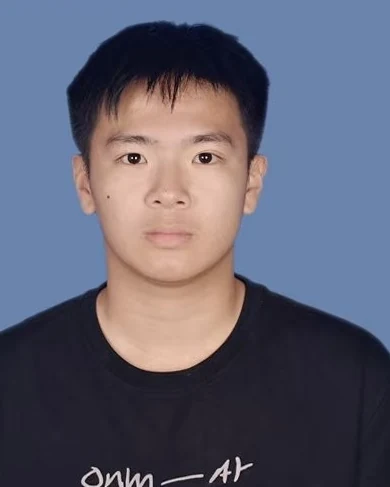
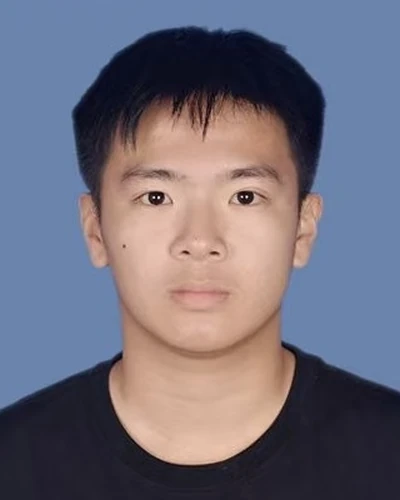
fix: 修正线上文字与头像展示

diff --git a/assets/main.scss b/assets/main.scss
@@ -155,7 +155,7 @@ a:focus {
   scroll-margin-top: 24px;
 }
 
-.page-content h3 {
+.page-content h2 {
   margin-bottom: 32px;
   padding-bottom: 14px;
   border-bottom: 1px solid $site-border;
@@ -209,7 +209,7 @@ a:focus {
   margin-bottom: 20px;
 }
 
-#projects + .layout .details h4 {
+#projects + .layout .details h3 {
   margin-bottom: 8px;
   color: $site-text;
   font-size: 2.4rem;
@@ -267,7 +267,7 @@ a:focus {
 }
 
 .dark .hero,
-.dark .page-content h3,
+.dark .page-content h2,
 .dark .profile-img,
 .dark #skills + .row p,
 .dark #projects + .layout,
@@ -276,8 +276,8 @@ a:focus {
 }
 
 .dark .hero h1,
-.dark .page-content h3,
-.dark #projects + .layout .details h4,
+.dark .page-content h2,
+.dark #projects + .layout .details h3,
 .dark .site-nav a {
   color: $site-dark-text;
 }

diff --git a/_includes/section-list.html b/_includes/section-list.html
@@ -1,7 +1,7 @@
 {% for item in include.content %}
   <div class="row clearfix layout layout-{{item.layout | default: 'left'}} border-{{item.border | default: 'no'}}">
     <div class="col-xs-12 col-sm-4 col-md-3 col-print-12 details">
-      <h4 id="{{ item.title | slugify }}">{{ item.title }}</h4>
+      <h3 id="{{ item.title | slugify }}">{{ item.title }}</h3>
       {%- if item.sub_title -%}<p><b>{{ item.sub_title }}</b></p>{%- endif -%}
       {%- if item.caption -%}<p>{{ item.caption }}</p>{%- endif -%}
 

diff --git a/_layouts/default.html b/_layouts/default.html
@@ -19,7 +19,7 @@
       {%- if site.version == 2 -%}
         {% for section in site.content %}
           <div class="container {{ section.layout }}-container">
-            <h3 id="{{ section.title | slugify }}">{{ section.title }}</h3>
+            <h2 id="{{ section.title | slugify }}">{{ section.title }}</h2>
             {% include {{ section.layout | prepend: "section-" | append: ".html" }} content=section.content %}
           </div>
         {% endfor %}

diff --git a/_includes/about.html b/_includes/about.html
@@ -1,6 +1,6 @@
 <div class="container intro-container">
-  <h3 id="{{ site.about_title | slugify | default: 'about-me' }}">{{ site.about_title | default:
-  "About Me" }}</h3>
+  <h2 id="{{ site.about_title | slugify | default: 'about-me' }}">{{ site.about_title | default:
+  "About Me" }}</h2>
   <div class="row clearfix">
     {%- if site.about_profile_image -%}
       <div class="col-xs-12 col-sm-4 col-md-3 no-print">

diff --git a/docs/checklist.md b/docs/checklist.md
@@ -4,93 +4,93 @@
 
 - 本清单依据 `docs/prd.md` 与 `docs/design.md` 编写。
 - 每一项都包含可见、可点击或可复现的检查动作；只有取得对应证据后才能将 `[ ]` 改为 `[x]`。
-- 验证证据和命令结果统一记录到 `docs/progress.md`。当前阶段尚未修改网站，因此所有网站验收项保持 `[ ]`。
+- 验证证据和命令结果统一记录到 `docs/progress.md`；只有已取得证据的项目才标记为 `[x]`。
 
 ## 1. 配置、构建与发布
 
-- [ ] 打开 `_config.yml`，可见 `repository: 824man824-bit/personal-resume`。
-- [ ] 打开 `_config.yml`，可见 `url: https://824man824-bit.github.io`。
-- [ ] 打开 `_config.yml`，可见 `baseurl: /personal-resume`。
-- [ ] 执行 `bundle exec jekyll build`（或项目确认的等效构建命令），命令以退出码 `0` 完成且无构建错误。
-- [ ] 构建后检查生成 HTML，站内链接、CSS、JavaScript 和头像路径均包含正确的项目站点前缀，且不包含本地磁盘路径。
-- [ ] 在浏览器打开 `https://824man824-bit.github.io/personal-resume/`，首页可见且控制台/网络面板没有站点资源 `404`。
+- [x] 打开 `_config.yml`，可见 `repository: 824man824-bit/personal-resume`。
+- [x] 打开 `_config.yml`，可见 `url: https://824man824-bit.github.io`。
+- [x] 打开 `_config.yml`，可见 `baseurl: /personal-resume`。
+- [x] 执行 `bundle exec jekyll build`（或项目确认的等效构建命令），命令以退出码 `0` 完成且无构建错误。
+- [x] 构建后检查生成 HTML，站内链接、CSS、JavaScript 和头像路径均包含正确的项目站点前缀，且不包含本地磁盘路径。
+- [x] 在浏览器打开 `https://824man824-bit.github.io/personal-resume/`，首页可见且控制台/网络面板没有站点资源 `404`。
 
 ## 2. 单页结构与首屏
 
-- [ ] 从页面顶部向下浏览，可见区域严格按 Hero、About、Skills、Projects、Contact 排列，且五个区域均有可识别标题或语义标签。
-- [ ] Hero 可见公开称呼“吕同学”。
-- [ ] Hero 可见完整定位“金融科技与区块链方向本科生，关注金融数据分析、业务原型开发与 AI 辅助项目实践。”
-- [ ] Hero 可见“查看项目”“访问 GitHub”“发送邮件”三个操作，且没有电话、出生日期、性别或政治面貌。
-- [ ] 点击“查看项目”后，页面跳转到 Projects 区域，目标标题未被遮挡。
+- [x] 从页面顶部向下浏览，可见区域严格按 Hero、About、Skills、Projects、Contact 排列，且五个区域均有可识别标题或语义标签。
+- [x] Hero 可见公开称呼“吕同学”。
+- [x] Hero 可见完整定位“金融科技与区块链方向本科生，关注金融数据分析、业务原型开发与 AI 辅助项目实践。”
+- [x] Hero 可见“查看项目”“访问 GitHub”“发送邮件”三个操作，且没有电话、出生日期、性别或政治面貌。
+- [x] 点击“查看项目”后，页面跳转到 Projects 区域，目标标题未被遮挡。
 
 ## 3. About 与头像
 
-- [ ] About 可见 PRD 第 6.2 节确认的真实简介，且没有未经确认的求职目标、奖项、排名、绩点或能力等级。
-- [ ] About 可见金融科技、区块链、信息系统、金融与政策数据分析、业务系统原型开发五个学习方向。
-- [ ] 打开页面可见头像来自用户授权的简历证件照，人物主体自然居中且没有多余白边。
-- [ ] 检查页面 DOM，头像使用 `<img>` 且 `alt` 为“吕同学头像”。
-- [ ] 检查仓库中的头像文件，目标文件为 `images/profile.webp`，不包含完整简历页面或其他个人信息。
+- [x] About 可见 PRD 第 6.2 节确认的真实简介，且没有未经确认的求职目标、奖项、排名、绩点或能力等级。
+- [x] About 可见金融科技、区块链、信息系统、金融与政策数据分析、业务系统原型开发五个学习方向。
+- [x] 打开页面可见头像来自用户授权的简历证件照，人物主体自然居中且没有多余白边。
+- [x] 检查页面 DOM，头像使用 `<img>` 且 `alt` 为“吕同学头像”。
+- [x] 检查仓库中的头像文件，目标文件为 `images/profile.webp`，不包含完整简历页面或其他个人信息。
 
 ## 4. Skills
 
-- [ ] Skills 可见六个分组：编程基础、Web 与数据存储、数据分析、可视化与汇报、金融数据工具、AI 辅助工作。
-- [ ] Skills 可见 C、C++、Python、Flask、MySQL、HTML、CSS、JavaScript、pandas、NumPy、SciPy、statsmodels、gretl、Excel、Matplotlib、Seaborn、PPT、Bloomberg Terminal、Codex、ChatGPT。
-- [ ] 页面中 `gretl` 拼写正确，且没有出现旧拼写 `fretl`。
-- [ ] Bloomberg Terminal 的文案明确为“基础使用”，没有“精通”等缺少证据的熟练度表述。
-- [ ] Skills 未使用百分比、星级或进度条表达无法验证的熟练度。
+- [x] Skills 可见六个分组：编程基础、Web 与数据存储、数据分析、可视化与汇报、金融数据工具、AI 辅助工作。
+- [x] Skills 可见 C、C++、Python、Flask、MySQL、HTML、CSS、JavaScript、pandas、NumPy、SciPy、statsmodels、gretl、Excel、Matplotlib、Seaborn、PPT、Bloomberg Terminal、Codex、ChatGPT。
+- [x] 页面中 `gretl` 拼写正确，且没有出现旧拼写 `fretl`。
+- [x] Bloomberg Terminal 的文案明确为“基础使用”，没有“精通”等缺少证据的熟练度表述。
+- [x] Skills 未使用百分比、星级或进度条表达无法验证的熟练度。
 
 ## 5. Projects
 
-- [ ] Projects 只展示“粤港澳大湾区低空经济产业孵化与区域攀比政策分析”一个项目，没有模板项目或其他占位经历。
-- [ ] 项目区域可见项目类型、研究问题、主要工作、技术与工具、可公开结果、表述边界六类信息。
-- [ ] 项目区域可见 `345` 份政策文本与 `2019—2024` 年数据范围。
-- [ ] 项目区域可见大语言模型多维量化和双向固定效应面板回归方法。
-- [ ] 项目区域可见政策确定性均值 `73.8`、扶持强度均值 `56.4`、监管强度均值 `30.7`。
-- [ ] 项目区域可见相关系数 `0.92` 与 `-0.70`，并明确它们是相关关系。
-- [ ] 项目区域可见政策综合得分系数 `0.0026` 与 `p = 0.285`，并表述为“未显示显著的直接促进作用”或等价谨慎表述。
-- [ ] 项目区域可见科技财政支出系数 `0.5012`、10% 显著性水平及人口规模在 1% 显著性水平上为负。
-- [ ] 搜索页面和配置，没有 Granger 检验、Panel VAR、131 条有效政策或企业新增注册数的旧表述。
-- [ ] Projects 没有不可用的“查看论文”“查看源码”或虚构项目仓库链接。
+- [x] Projects 只展示“粤港澳大湾区低空经济产业孵化与区域攀比政策分析”一个项目，没有模板项目或其他占位经历。
+- [x] 项目区域可见项目类型、研究问题、主要工作、技术与工具、可公开结果、表述边界六类信息。
+- [x] 项目区域可见 `345` 份政策文本与 `2019—2024` 年数据范围。
+- [x] 项目区域可见大语言模型多维量化和双向固定效应面板回归方法。
+- [x] 项目区域可见政策确定性均值 `73.8`、扶持强度均值 `56.4`、监管强度均值 `30.7`。
+- [x] 项目区域可见相关系数 `0.92` 与 `-0.70`，并明确它们是相关关系。
+- [x] 项目区域可见政策综合得分系数 `0.0026` 与 `p = 0.285`，并表述为“未显示显著的直接促进作用”或等价谨慎表述。
+- [x] 项目区域可见科技财政支出系数 `0.5012`、10% 显著性水平及人口规模在 1% 显著性水平上为负。
+- [x] 搜索页面和配置，没有 Granger 检验、Panel VAR、131 条有效政策或企业新增注册数的旧表述。
+- [x] Projects 没有不可用的“查看论文”“查看源码”或虚构项目仓库链接。
 
 ## 6. Contact 与交互
 
-- [ ] Contact 可见并可点击 GitHub 链接 `https://github.com/824man824-bit`。
-- [ ] 点击 GitHub 后在新页面打开正确账号；检查链接含 `rel="noopener noreferrer"` 或等效安全属性。
-- [ ] Contact 可见邮箱 `fukun.lyu@audencia.com`，点击后触发 `mailto:fukun.lyu@audencia.com`。
+- [x] Contact 可见并可点击 GitHub 链接 `https://github.com/824man824-bit`。
+- [x] 点击 GitHub 后在新页面打开正确账号；检查链接含 `rel="noopener noreferrer"` 或等效安全属性。
+- [x] Contact 可见邮箱 `fukun.lyu@audencia.com`，点击后触发 `mailto:fukun.lyu@audencia.com`。
 - [ ] 仅使用键盘 Tab 可依次聚焦所有主要操作和联系链接，按 Enter 能触发对应跳转。
-- [ ] 每个链接和按钮获得焦点时有清晰可见的焦点轮廓，焦点没有被样式隐藏。
-- [ ] Contact 没有联系表单、电话、即时聊天或需要后端处理的控件。
+- [x] 每个链接和按钮获得焦点时有清晰可见的焦点轮廓，焦点没有被样式隐藏。
+- [x] Contact 没有联系表单、电话、即时聊天或需要后端处理的控件。
 
 ## 7. 视觉与深色模式
 
 - [ ] 浅色模式可见白色主背景、深色正文与蓝色强调色，正文、链接和按钮均易读。
-- [ ] 将系统外观切换为深色后刷新页面，可见深色背景、浅色正文和可辨识链接；没有深色文字落在深色背景上的情况。
+- [x] 将系统外观切换为深色后刷新页面，可见深色背景、浅色正文和可辨识链接；没有深色文字落在深色背景上的情况。
 - [ ] 在浅色和深色模式下分别检查按钮的默认、悬停和键盘焦点状态，三种状态均可辨识。
-- [ ] 页面字体为设计说明定义的无衬线字体栈，移动端正文计算字号不小于 `16px`。
-- [ ] 页面没有紫色霓虹渐变、厚重拟物阴影或与克制专业方向冲突的装饰。
-- [ ] 开启系统“减少动态效果”后，页面没有非必要动画或强制平滑滚动。
+- [x] 页面字体为设计说明定义的无衬线字体栈，移动端正文计算字号不小于 `16px`。
+- [x] 页面没有紫色霓虹渐变、厚重拟物阴影或与克制专业方向冲突的装饰。
+- [x] 开启系统“减少动态效果”后，页面没有非必要动画或强制平滑滚动。
 
 ## 8. 响应式与可访问性
 
-- [ ] 在 `1440 × 900` 视口检查：内容位于受控宽度内，Hero、About、Skills、Projects、Contact 无遮挡或横向滚动。
-- [ ] 在 `375 × 812` 视口检查：Hero 操作自然换行或纵向排列，文字和按钮没有截断。
-- [ ] 在 `375 × 812` 视口检查：About 头像位于正文上方并居中，Skills 与项目摘要为单列，Contact 邮箱不溢出。
-- [ ] 在约 `320px` 宽视口检查：页面 `document.documentElement.scrollWidth` 不大于视口宽度，没有横向溢出。
-- [ ] 使用浏览器无障碍树或页面大纲检查：主标题与各区域标题层级清晰，没有跳过主要标题层级。
-- [ ] 检查所有可点击目标，主要按钮和联系入口的可点击高度或宽度至少为 `44px`。
+- [x] 在 `1440 × 900` 视口检查：内容位于受控宽度内，Hero、About、Skills、Projects、Contact 无遮挡或横向滚动。
+- [x] 在 `375 × 812` 视口检查：Hero 操作自然换行或纵向排列，文字和按钮没有截断。
+- [x] 在 `375 × 812` 视口检查：About 头像位于正文上方并居中，Skills 与项目摘要为单列，Contact 邮箱不溢出。
+- [x] 在约 `320px` 宽视口检查：页面 `document.documentElement.scrollWidth` 不大于视口宽度，没有横向溢出。
+- [x] 使用浏览器无障碍树或页面大纲检查：主标题与各区域标题层级清晰，没有跳过主要标题层级。
+- [x] 检查所有可点击目标，主要按钮和联系入口的可点击高度或宽度至少为 `44px`。
 - [ ] 关闭 CSS 后阅读页面，五个区域仍按正确顺序出现且主要链接文字能说明目的。
 
 ## 9. 内容、隐私与清理
 
-- [ ] 搜索页面输出和网站配置，不存在模板姓名、模板职位、示例项目、示例社交账号或 “References on request”。
-- [ ] 搜索仓库拟发布内容，不存在电话号码、出生日期、性别、政治面貌或本地磁盘路径。
-- [ ] 搜索仓库拟发布内容，不存在密码、邀请码、Token、API Key 或 `.env` 内容。
-- [ ] 仓库未新增课程论文全文、原始数据、项目源代码或原始简历文件。
-- [ ] 除授权头像外，页面未使用来源不明的个人照片、学校标志或项目插图。
-- [ ] 页面中的个人信息、项目事实和联系方式逐项与 `docs/prd.md` 一致。
+- [x] 搜索页面输出和网站配置，不存在模板姓名、模板职位、示例项目、示例社交账号或 “References on request”。
+- [x] 搜索仓库拟发布内容，不存在电话号码、出生日期、性别、政治面貌或本地磁盘路径。
+- [x] 搜索仓库拟发布内容，不存在密码、邀请码、Token、API Key 或 `.env` 内容。
+- [x] 仓库未新增课程论文全文、原始数据、项目源代码或原始简历文件。
+- [x] 除授权头像外，页面未使用来源不明的个人照片、学校标志或项目插图。
+- [x] 页面中的个人信息、项目事实和联系方式逐项与 `docs/prd.md` 一致。
 
 ## 10. 文档与 Git 交付
 
-- [ ] 对照检查 `docs/prd.md`、`docs/design.md` 与网站输出，三者在页面顺序、公开内容、项目口径、联系方式和隐私边界上保持一致。
-- [ ] 完成验收后，`docs/progress.md` 记录构建命令、浏览器视口、链接检查、隐私搜索和未通过项的真实结果。
+- [x] 对照检查 `docs/prd.md`、`docs/design.md` 与网站输出，三者在页面顺序、公开内容、项目口径、联系方式和隐私边界上保持一致。
+- [x] 完成验收后，`docs/progress.md` 记录构建命令、浏览器视口、链接检查、隐私搜索和未通过项的真实结果。
 - [ ] 执行 `git log --oneline`，可见除模板提交外至少 4 次新的、有意义的作业提交，且提交主题与各阶段工作一致。

diff --git a/docs/progress.md b/docs/progress.md
@@ -3,12 +3,74 @@
 ## 阶段概况
 
 - 记录日期：2026-07-24
-- 当前阶段：Hero 行动入口、页面导航、视觉与响应式
+- 当前阶段：GitHub Pages 发布与线上验收
 - 仓库：`824man824-bit/personal-resume`
 - 本地目录：`[本地工作区路径不公开]`
 - 当前分支：`master`
 - 远程分支：`origin/master`
-- 阶段状态：已完成 Hero 行动入口、页内导航、主要视觉、深色模式、焦点与响应式规则；头像资源、正式 Jekyll 构建及部署验证仍待后续阶段完成
+- 阶段状态：GitHub Pages 首次正式构建与部署成功；线上验收后按用户反馈完成文字高亮、头像居中裁剪与标题层级修复，等待最终提交重新构建
+
+## GitHub Pages 发布阶段完成事项
+
+- 已将用户明确授权的头像居中裁剪为 4:5，并以 WebP 格式保存为 `images/profile.webp`；未进行生成式重绘、美颜、换脸或背景替换。
+- 已创建提交 `0862211 fix: 修复 GitHub Pages 发布问题`，并推送至 `origin/master`。
+- 用户已确认在 GitHub 仓库 `Settings → Pages` 中选择 `Deploy from a branch`、`master`、`/(root)` 并保存。
+- GitHub 官方 `pages-build-deployment #1` 已对提交 `0862211` 完成 build、report-build-status 与 deploy，状态为 Success，总耗时 41 秒，部署地址为 `https://824man824-bit.github.io/personal-resume/`。
+- 已在未登录环境打开公开站点，完成内容、样式、图片、链接、控制台、响应式与可访问性检查。
+- 根据用户线上截图反馈，将 `p = 0.285` 从 Markdown 行内代码改为普通正文，消除不必要的粉色高亮。
+- 根据用户反馈重新从原始授权照片进行确定性 4:5 裁剪；以头部轮廓在原图上半部的中轴 `x = 222px` 为基准，采用水平范围 `62–382px`，使人物中轴对应输出图像几何中轴 `x = 200px`；未改变人物外貌、背景或色彩。
+- 将 About、Skills、Projects、Contact 区域标题从 `h3` 调整为 `h2`，并将项目标题从 `h4` 调整为 `h3`，修复标题层级跳级问题并同步更新样式选择器。
+
+## GitHub Pages 发布阶段修改的文件
+
+- `_config.yml`：移除 `p = 0.285` 的行内代码标记，恢复为普通正文。
+- `_includes/about.html`：将 About 区域标题改为 `h2`。
+- `_layouts/default.html`：将 Skills、Projects、Contact 等区域标题改为 `h2`。
+- `_includes/section-list.html`：将项目标题改为 `h3`。
+- `assets/main.scss`：将区域标题样式与深色样式选择器从 `h3` 同步改为 `h2`。
+- `images/profile.webp`：替换为人物中轴与图像中轴对齐的 `400 × 500` WebP 裁剪版本。
+- `docs/checklist.md`：依据 GitHub Pages 构建与未登录线上检查证据更新验收状态。
+- `docs/progress.md`：记录发布、用户反馈、修复、验证、决定、遗留项与下一阶段任务。
+
+## GitHub Pages 发布阶段验证结果
+
+- 已确认远端 `master` 指向提交 `0862211`，本地 `master` 与 `origin/master` 一致。
+- 保存 Pages 设置前，公开地址返回 GitHub Pages “Site not found” 404；保存设置并成功构建后，公开首页正常显示。
+- 保存 Pages 设置后，GitHub 官方 `pages-build-deployment #1` 成功：build 20 秒、report-build-status 5 秒、deploy 10 秒，生成 803 KB 的 `github-pages` 构建产物，部署目标指向预期公开地址。
+- 构建包含两条非阻塞警告：GitHub Pages 内部 Actions 的 Node.js 20 弃用提示，以及 `github-pages` gem 无法完全满足仓库 `Gemfile` 依赖的兼容性提示；两者均未导致构建或部署失败，本阶段未将其误判为 Pages 发布失败。
+- 未登录线上页面标题正确，Hero、About、Skills、Projects、Contact 均可见且顺序正确；公开内容与 PRD、设计文档一致。
+- 正式页面的 CSS、JavaScript、头像路径均包含 `/personal-resume/` 前缀；头像完整加载，首次部署版本自然尺寸为 `390 × 487`，最终本地修订版本为 `400 × 500`。
+- 线上控制台没有 warning 或 error；首页未发现站点资源 `404`。
+- 桌面 `1440 × 900` 检查中内容最大宽度为 `1080px`，主要按钮高度 `44px`，Contact 入口高度约 `52.5px`，页面没有内容遮挡或横向滚动。
+- 移动 `375 × 812` 检查中实际内容区宽 `360px` 且 `scrollWidth = 360px`，Hero 操作纵向排列，头像约 `152 × 186px`，Skills 与 Contact 为单列；约 `320px` 检查中实际内容区与 `scrollWidth` 均为 `305px`。
+- 点击“查看项目”后地址变为 `#projects`，目标标题距视口顶部约 `24px`；GitHub 链接为 `target="_blank" rel="noopener noreferrer"`，未登录打开正确账号；邮箱链接使用 `mailto:fukun.lyu@audencia.com`。
+- 深色模式计算样式为页面背景 `rgb(34, 34, 34)`、正文 `rgb(230, 230, 230)`、Hero 背景 `rgb(43, 47, 54)`；移动端正文计算字号为 `16px`，字体为设计定义的无衬线字体栈。
+- 页面焦点轮廓为约 `3px` 的蓝色实线；自动化浏览器的 Enter 注入未触发原生链接，因此仅保留 Enter 手工复核项为未完成，不将工具限制误判为站点故障。
+- CSS 中存在 `prefers-reduced-motion: reduce` 规则，关闭平滑滚动并将非必要过渡压缩至 `0.01ms`；未发现渐变规则。
+- 静态隐私与模板残留搜索未发现电话号码、出生日期、性别、政治面貌、本地磁盘路径、密码、邀请码、Token、API Key、`fretl` 或停用的项目旧表述；Footer 模板中的默认文字仅存在于被配置关闭的条件分支，线上输出未出现。
+- 最终本地修订通过 `git diff --check`；本机仍未安装 Ruby、Bundler 或 Docker，未执行本地 Jekyll 构建，继续以 GitHub Pages 官方构建作为正式构建验证。
+
+## GitHub Pages 发布阶段用户确认的决定
+
+- 使用用户提供的证件照作为头像，目标文件为 `images/profile.webp`。
+- GitHub Pages 发布源使用 `Deploy from a branch`、`master`、`/(root)`。
+- 用户允许先补齐本进行中交接记录，再继续读取 Pages 构建结果和线上验收。
+- 用户确认公开站点已打开，并指出 `p = 0.285` 字体颜色异常高光及人像未居中；本阶段按该反馈修复两项问题。
+
+## GitHub Pages 发布阶段未完成问题
+
+- 本次针对文字、头像与标题层级的最终修订尚未推送，需提交后等待新的 GitHub Pages 官方构建成功，再复核线上输出。
+- 自动化浏览器的 Enter 注入无法触发原生锚点导航，Enter 激活链接仍需用户或普通浏览器手工复核。
+- 浅色模式与浅色/深色按钮悬停组合未能在当前系统深色偏好下完整切换验证；已有 CSS 规则与早期浅色预览证据，但对应清单项保持未勾选。
+- 关闭 CSS 后的纯文档阅读顺序尚未手工复核。
+- 当前浅克隆本地历史只显示模板提交与发布修复提交，无法从本地证明“除模板外至少 4 次有意义提交”；需以后续完整远端历史或课程提交记录复核。
+
+## GitHub Pages 发布阶段下一步任务
+
+1. 提交并推送本轮文字高亮、头像居中、标题层级与验收文档修订。
+2. 等待最终 `pages-build-deployment` 成功，并确认构建对应最新提交。
+3. 在未登录公开地址复核普通正文 `p = 0.285`、新头像取景、`h1 → h2 → h3` 标题层级、资源加载和控制台。
+4. 后续如需完成全部清单，手工复核 Enter、浅色模式三态按钮与关闭 CSS 后的阅读顺序，并确认至少 4 次有意义提交。
 
 ## Hero、导航与响应式阶段完成事项
 
